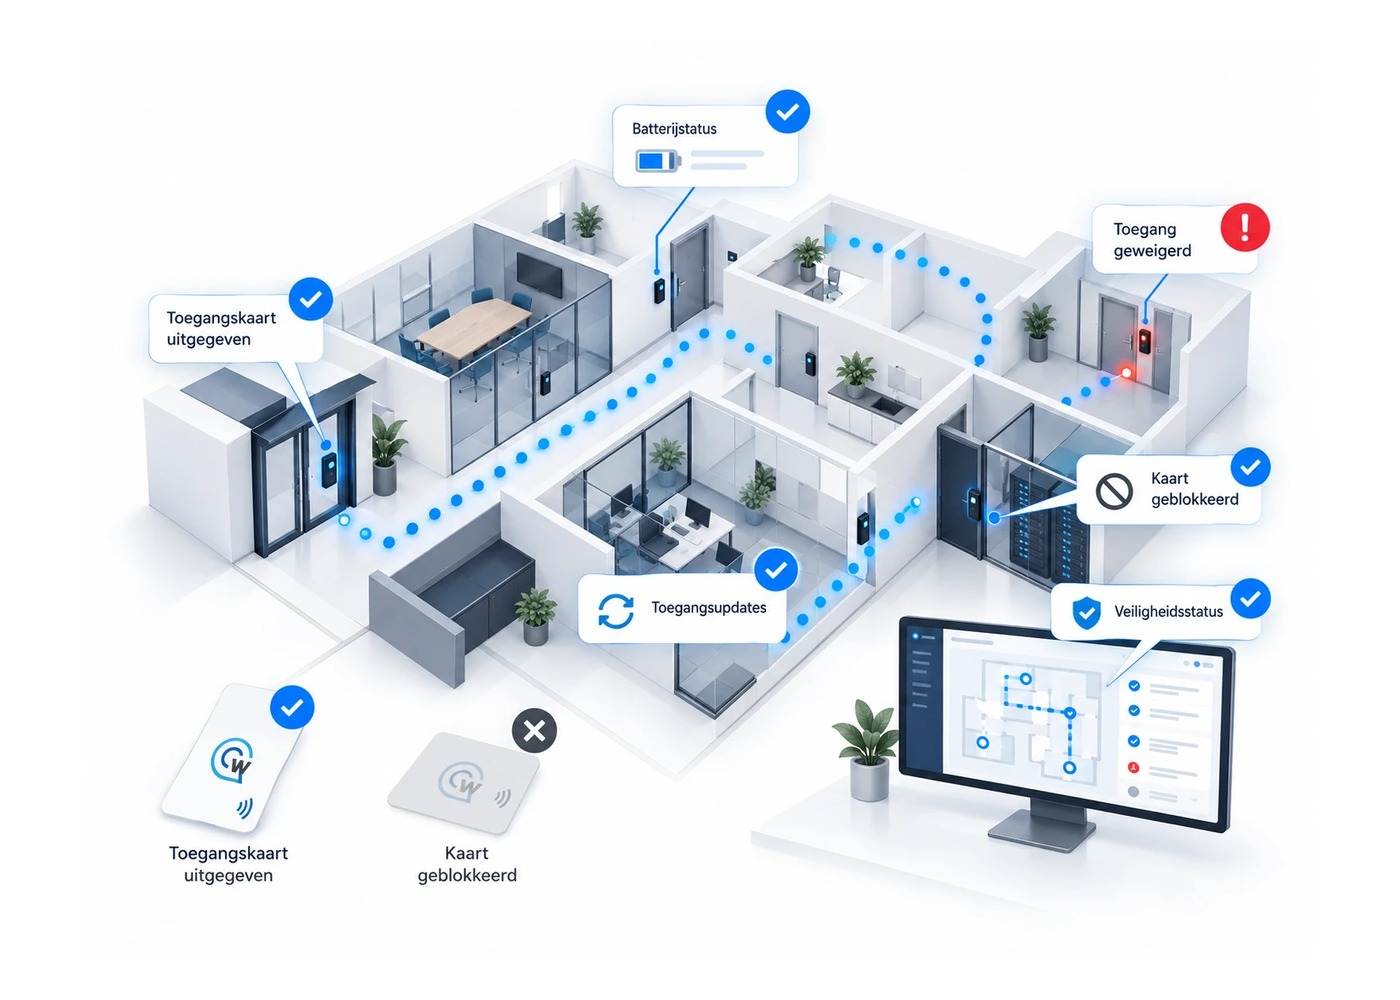
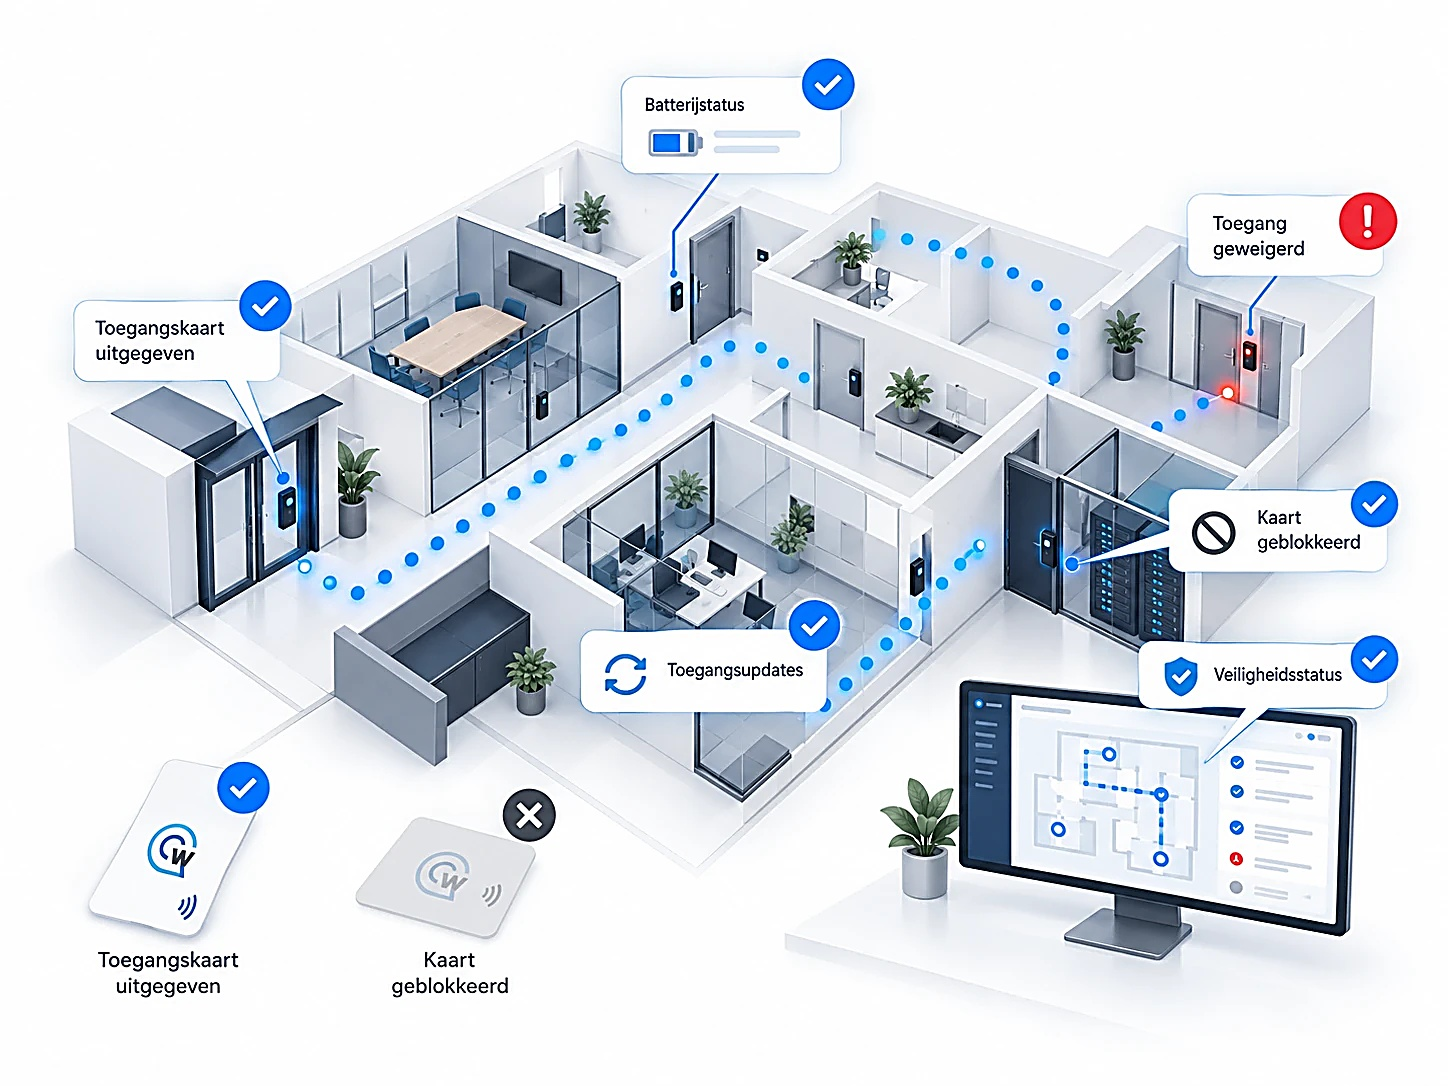
Tekstscherpte van de twee schema's: virtueel-netwerkillustratie op volle resolutie verscherpt, en de beeldpijplijn comprimeert schema's met kleine tekst voortaan op WebP-kwaliteit 90 in plaats van 80 (sluitplan en virtueel netwerk)

Changed region(s): [[0.0307, 0.031, 0.9829, 0.93]]

diff --git a/build.py b/build.py
@@ -659,7 +659,9 @@ def _verwerk(bronpad):
             w2 = min(w, b0); h2 = round(h0 * w2 / b0)
             kopie = im.resize((w2, h2), Image.LANCZOS)
             wp = uit / f"{beeldnaam(bronpad)}-{w}.webp"
-            kopie.save(wp, "WEBP", quality=80, method=6)
+            # schema's met kleine tekst verdragen de standaardcompressie slecht: hogere kwaliteit (Lars, 01-10-2026)
+            tekstbeeld = bronpad.stem.startswith(("sluitplan-voorbeeld", "virtueel-netwerk"))
+            kopie.save(wp, "WEBP", quality=90 if tekstbeeld else 80, method=6)
             av = uit / f"{beeldnaam(bronpad)}-{w}.avif"
             try:
                 kopie.save(av, "AVIF", quality=60)
